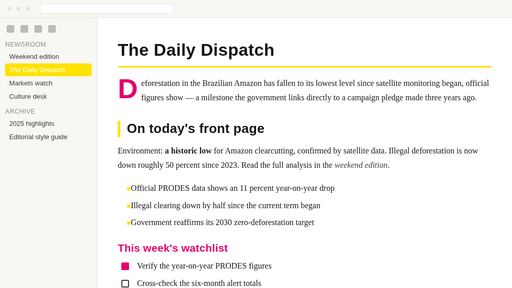
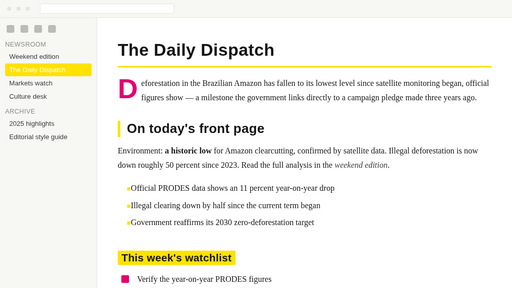
fix: v2.0.1 — navy blue, highlighted H3, cooler dark-mode callout/quote bg
- --tdl-blue darkened to a proper navy ink (#0e1e3d), and callout titles
  are now explicitly pinned to it instead of falling back to Obsidian's
  default per-type callout color (#086ddd for [!note]).
- H3 headings: light mode now renders as black text on a yellow
  highlight chip (an editorial "marker" look) instead of colored text;
  dark mode uses plain yellow text (better contrast than the previous
  pink, no highlight needed against a dark background).
- Callout/blockquote background in dark mode moved from a dark
  yellow-olive tint (--tdl-yellow-soft) to a cooler dark teal-navy.

Changed region(s): [[0.2188, 0.8438, 0.5312, 1.0]]

diff --git a/theme.css b/theme.css
@@ -31,7 +31,7 @@ body {
   --tdl-yellow-soft: #fffdf3;
   --tdl-ink: #141414;
   --tdl-ink-soft: #3c3b3b;
-  --tdl-blue: #1d3566;
+  --tdl-blue: #0e1e3d;
   --tdl-red: #e85959;
   --tdl-fuchsia: #e5006f;
 
@@ -74,7 +74,7 @@ body {
 
   --h1-color: var(--tdl-ink);
   --h2-color: var(--tdl-ink);
-  --h3-color: var(--tdl-fuchsia-text);
+  --h3-color: var(--tdl-ink);
   --h4-color: var(--tdl-ink);
   --h5-color: var(--tdl-ink-soft);
   --h6-color: var(--tdl-ink-soft);
@@ -113,11 +113,12 @@ body {
 
   --h1-color: #f5f5f0;
   --h2-color: #f5f5f0;
+  --h3-color: var(--tdl-yellow);
   --h4-color: #e9e9e6;
   --h5-color: #b4b4ad;
   --h6-color: #b4b4ad;
   --link-color: #ffd84d;
-  --tdl-yellow-soft: #2a2616;
+  --tdl-yellow-soft: #002b36;
 }
 
 /* ------------------------------------------------------------- LAYOUT/UI -- */
@@ -169,7 +170,19 @@ body {
 .cm-s-obsidian .cm-header-3 {
   font-size: 1.3em;
   margin: 1.1em 0 0.4em;
-  color: var(--tdl-fuchsia-text);
+  display: inline-block;
+  color: var(--tdl-ink);
+  background: var(--tdl-yellow);
+  padding: 0.05em 0.35em;
+  border-radius: 2px;
+}
+
+.theme-dark .markdown-preview-view h3,
+.theme-dark .cm-s-obsidian .cm-header-3 {
+  display: block;
+  background: none;
+  padding: 0;
+  color: var(--tdl-yellow);
 }
 
 .markdown-preview-view h4,
@@ -464,7 +477,11 @@ a.tag,
   font-family: var(--heading-font);
   text-transform: uppercase;
   letter-spacing: 0.04em;
+  /* Obsidian colors callout titles per-type by default (e.g. #086ddd for
+     [!note]) via --callout-color; pin it to our own navy ink instead. */
+  color: var(--tdl-blue);
 }
+.theme-dark .callout .callout-title { color: var(--text-normal); }
 
 /* --------------------------------------------------------------- SCROLL -- */
 ::-webkit-scrollbar-thumb {
